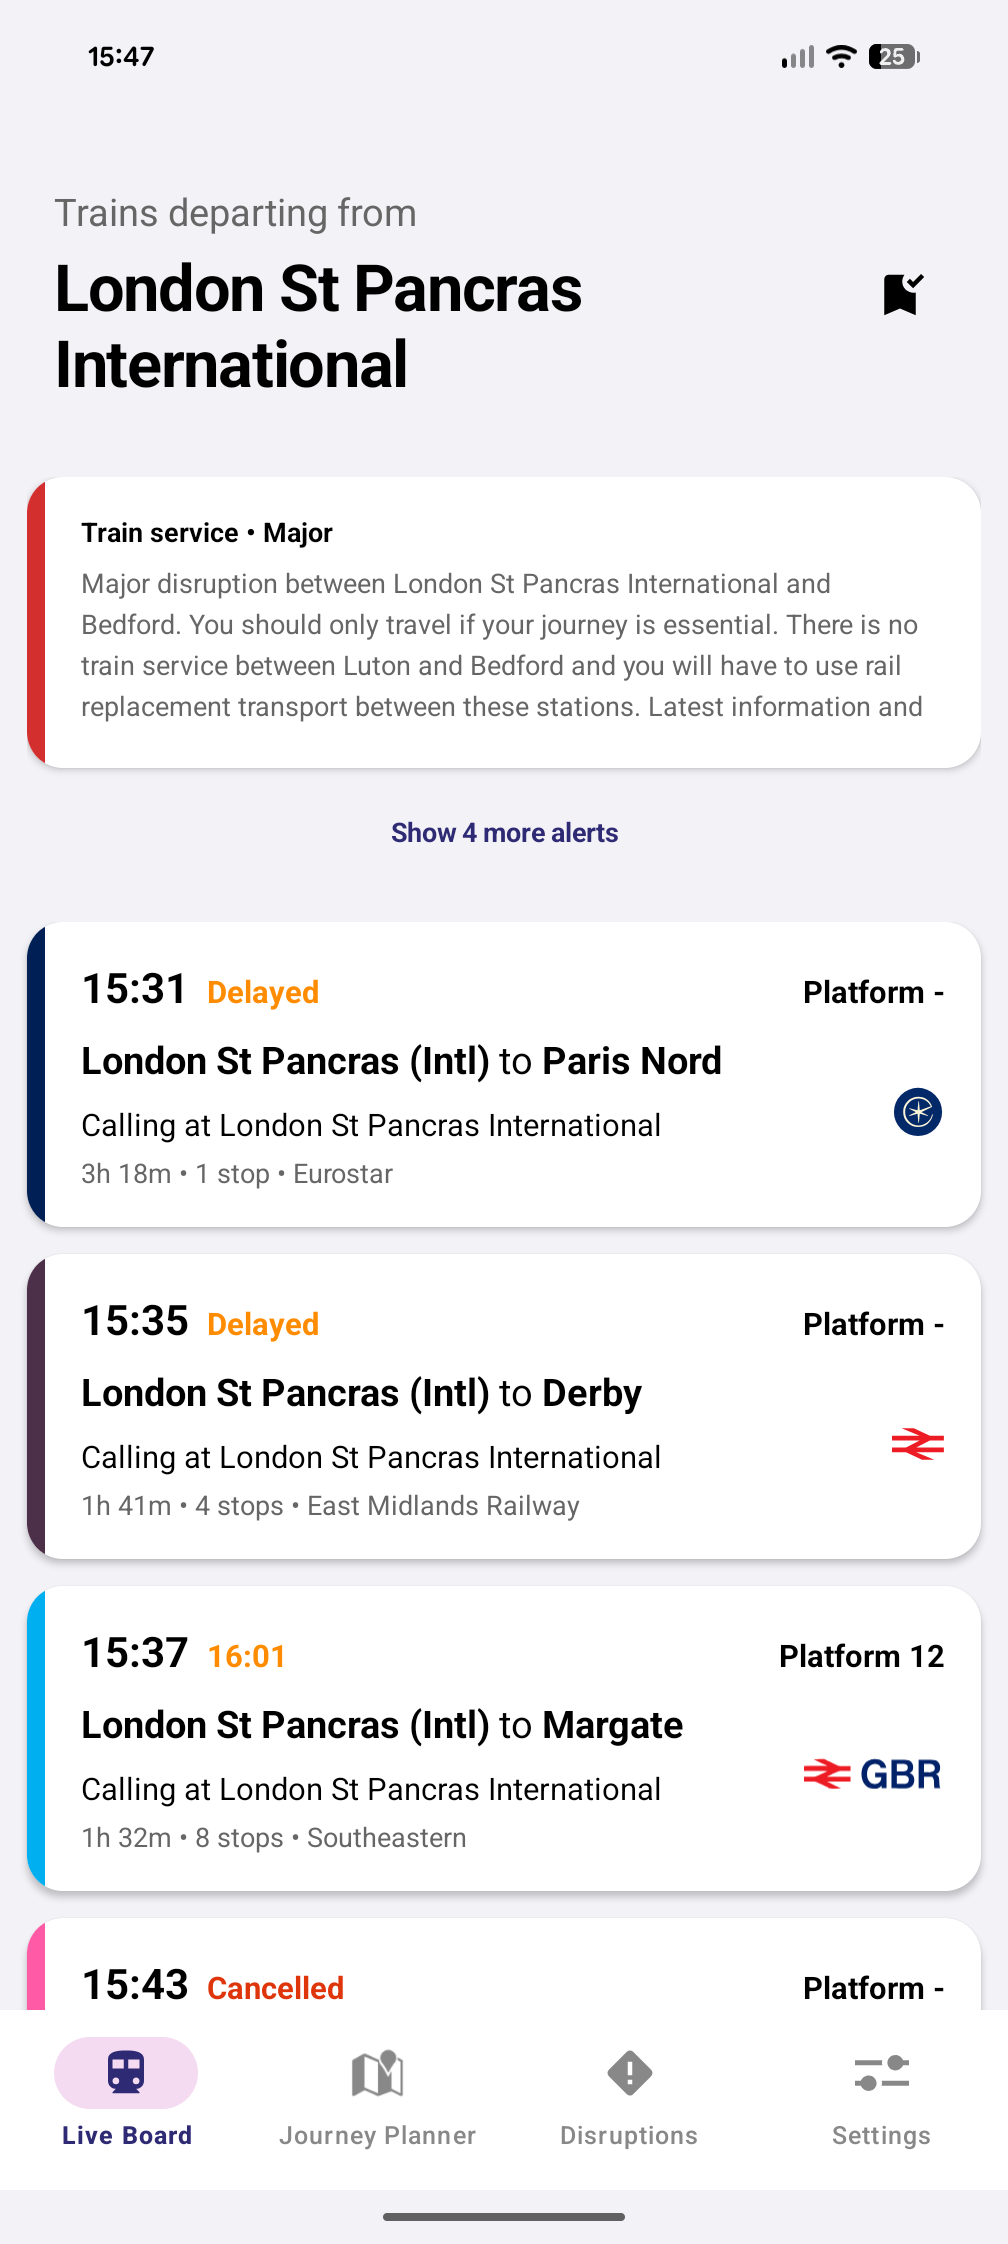
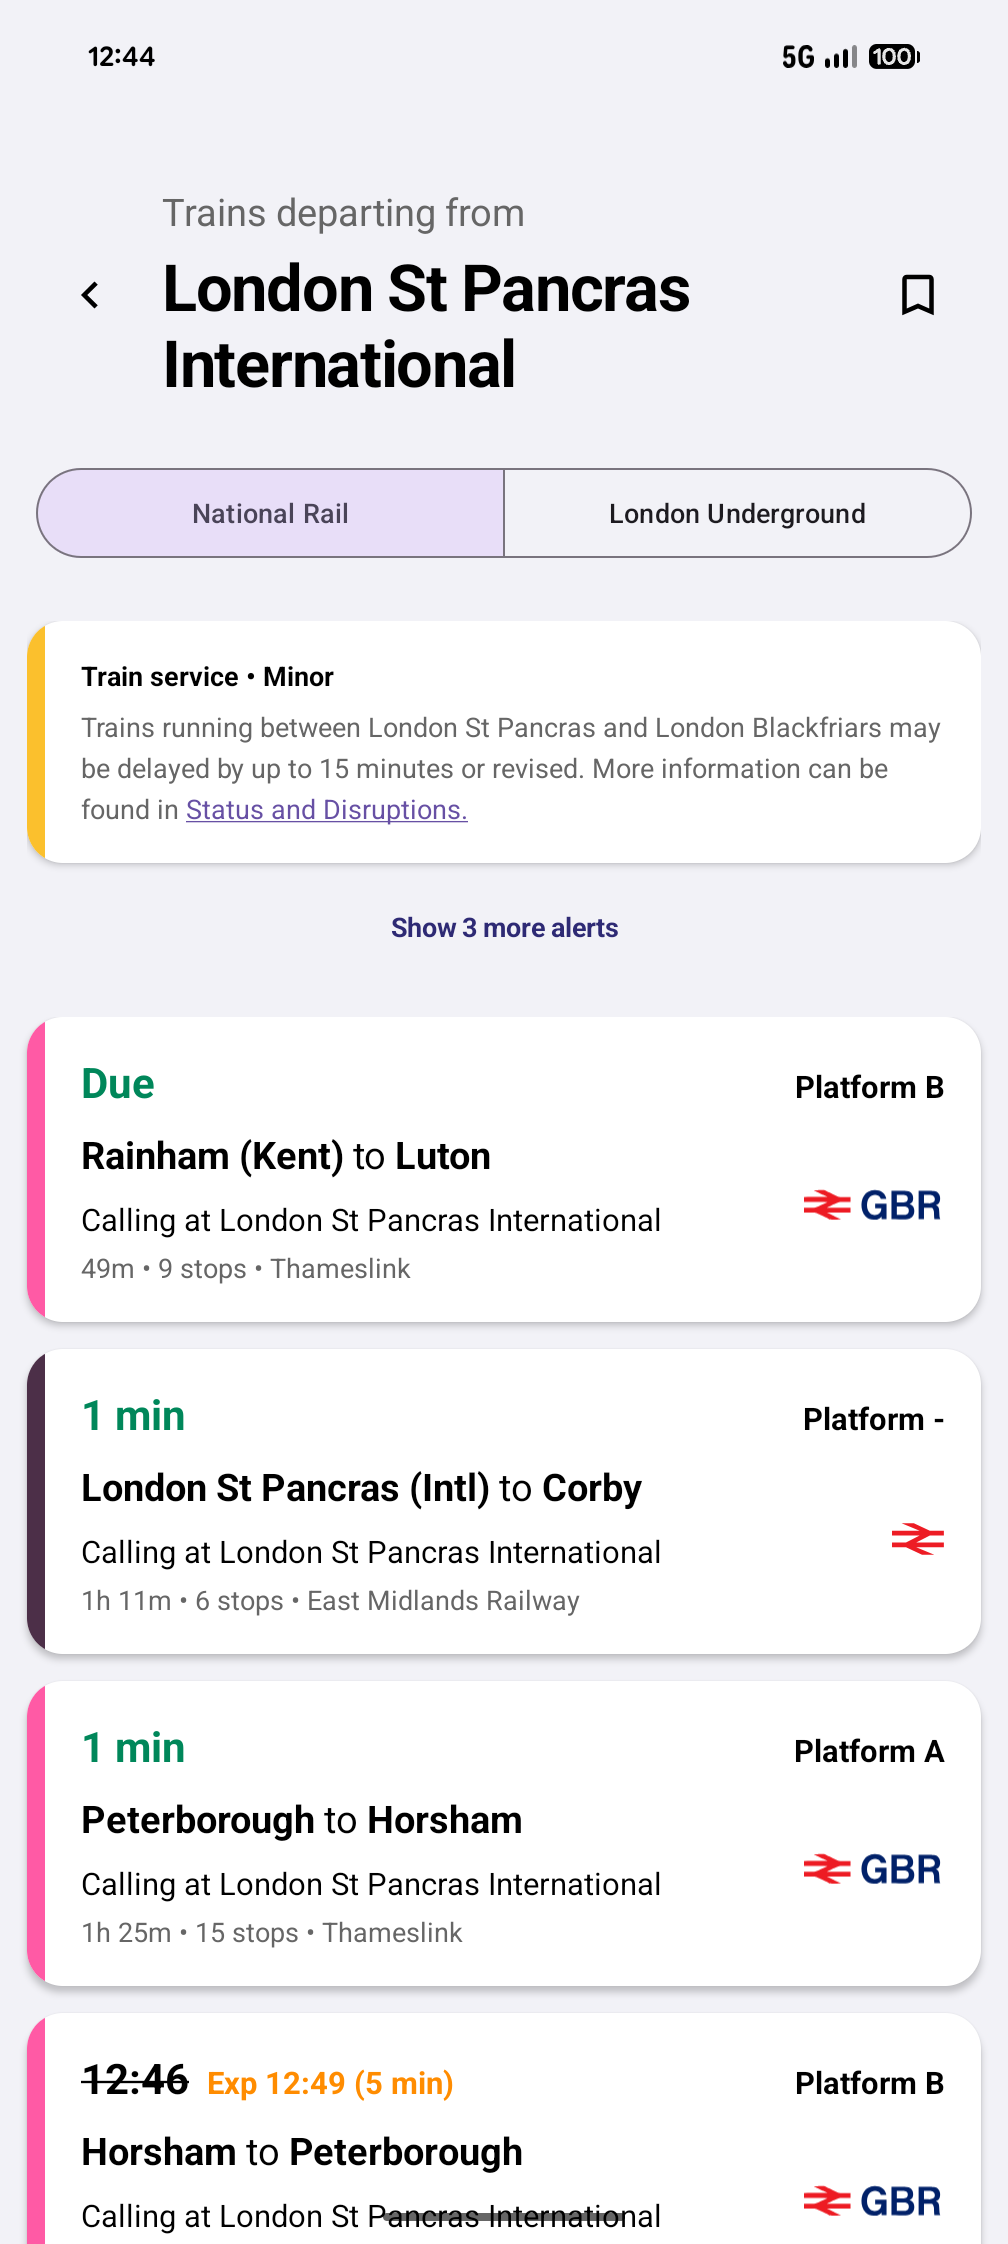
Updated website

diff --git a/docs/index.html b/docs/index.html
@@ -151,6 +151,14 @@
 
         <div class="flex-none w-64 snap-center border-[8px] border-gray-800 dark:border-gray-700 rounded-[2.5rem] shadow-xl overflow-hidden bg-gray-800">
             <picture>
+                <source media="(prefers-color-scheme: dark)" srcset="./readmeimg/UndergroundDepatures-Dark.png">
+                <source media="(prefers-color-scheme: light)" srcset="./readmeimg/UndergroundDepatures-Light.png">
+                <img src="./readmeimg/UndergroundDepatures-Dark.png" alt="CallingPoint Android departure board showing live London Underground times" class="w-full h-full object-cover rounded-[2rem]">
+            </picture>
+        </div>
+
+        <div class="flex-none w-64 snap-center border-[8px] border-gray-800 dark:border-gray-700 rounded-[2.5rem] shadow-xl overflow-hidden bg-gray-800">
+            <picture>
                 <source media="(prefers-color-scheme: dark)" srcset="./readmeimg/JourneySearch-Dark.png">
                 <source media="(prefers-color-scheme: light)" srcset="./readmeimg/JourneySearch-Light.png">
                 <img src="./readmeimg/JourneySearch-Light.png" alt="CallingPoint journey search functionality" class="w-full h-full object-cover rounded-[2rem]">
